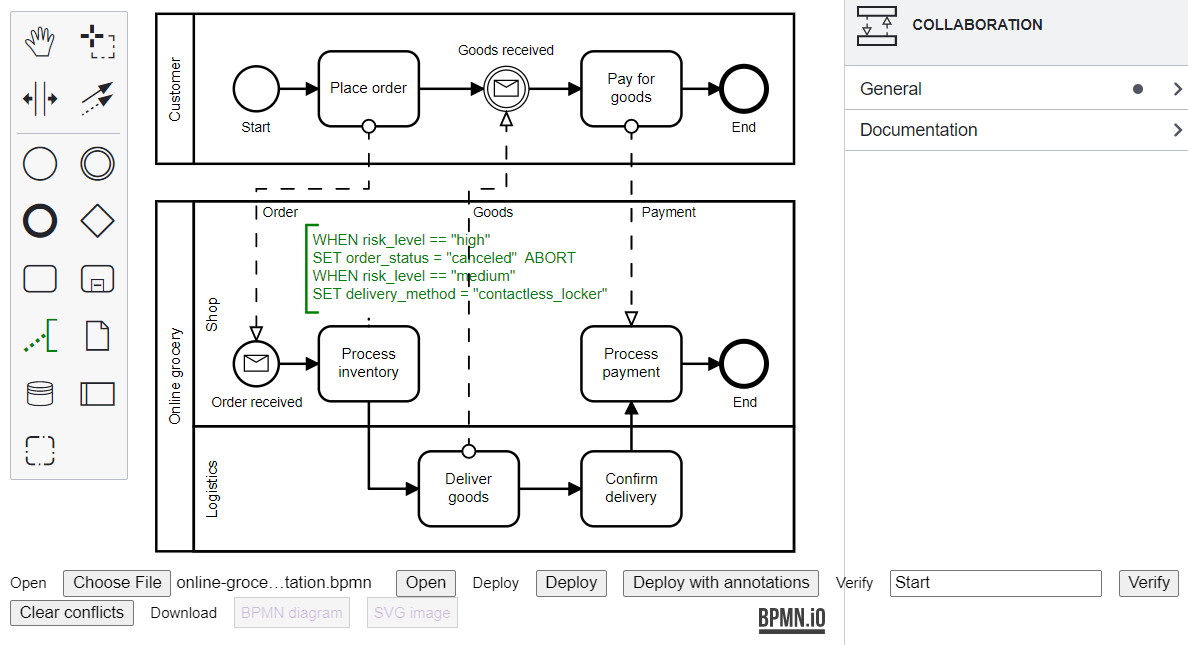
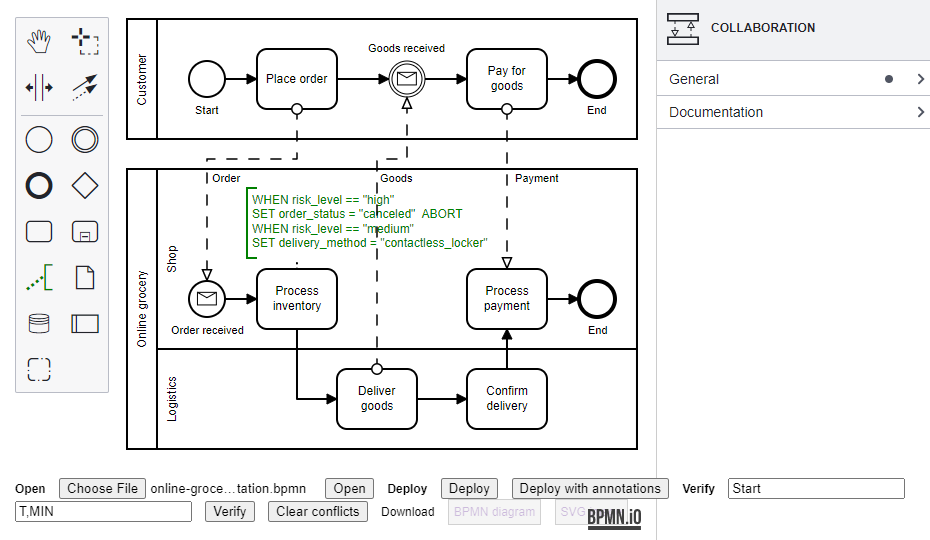
update SLO frontend

Changed region(s): [[0.0, 0.0, 0.9978, 1.0], [0.7172, 0.0, 1.0, 0.237]]

diff --git a/dsl-frontend/src/assets/public-2/index.html b/dsl-frontend/src/assets/public-2/index.html
@@ -67,7 +67,7 @@
       <input id="start-node-name" value="Start">
     </li>
     <li>
-      <input id="sli-list" value="P,R=AAA>AA>A>BBB>BB>B>CCC>CC>C>0,T,max">
+      <input id="sli-list" value="T,MIN">
     </li>
     <li>
       <button id="js-verify">

diff --git a/editor-frontend-2/src/index.html b/editor-frontend-2/src/index.html
@@ -67,7 +67,7 @@
       <input id="start-node-name" value="Start">
     </li>
     <li>
-      <input id="sli-list" value="P,R=AAA>AA>A>BBB>BB>B>CCC>CC>C>0,T,max">
+      <input id="sli-list" value="T,MIN">
     </li>
     <li>
       <button id="js-verify">
